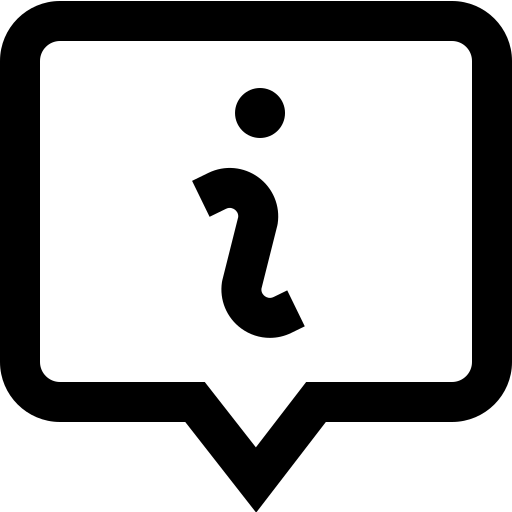
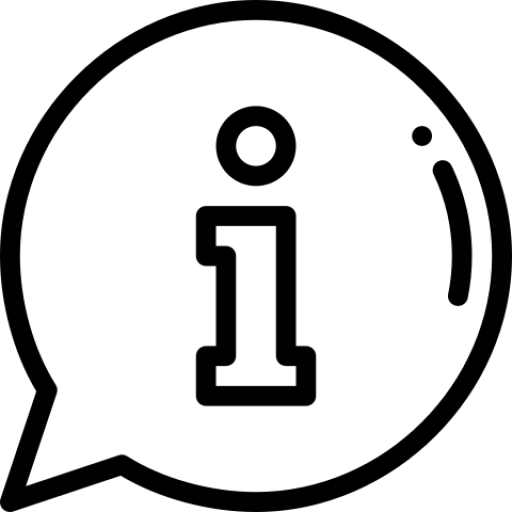
Finaliza projeto para entrega

diff --git a/styles/about.css b/styles/about.css
@@ -1,0 +1,4 @@
+#img_about
+{
+    margin-top: 30px;
+}

diff --git a/paginas/register.php b/paginas/register.php
@@ -1,5 +1,6 @@
 <script src="/scripts/go_back.js"></script>
-<script src="scripts/valida_form.js"></script>
+<script src="/scripts/busca_cep.js"></script>
+<script src="/scripts/valida_form.js"></script>
 
 <div class="row justify-content-md-center">
 	<div class="col-lg-6">
@@ -28,7 +29,7 @@
 					<div class="input-group-prepend">
 						<span class="input-group-text">&reg;</span>
 					</div>
-					<input type="text" class="form-control" id="empresa" name="empresa" placeholder="Empresa" required>
+					<input type="text" class="form-control" id="empresa" name="empresa" placeholder="" required>
 					<div class="invalid-feedback" style="width: 100%;">
 						Sua Empresa é obrigatório.
 					</div>
@@ -36,8 +37,16 @@
 			</div>
 
 			<div class="mb-3">
+				<label for="cpfcnpj">CPF/CNPJ</label>
+				<input type="text" class="form-control" id="cpfcnpj" name="cpfcnpj" placeholder="" required>
+				<div class="invalid-feedback">
+					Seu CPF/CNPJ é obrigatório.
+				</div>
+			</div>
+
+			<div class="mb-3">
 				<label for="email">Email</label>
-				<input type="email" class="form-control" id="email" name="email" placeholder="fulano@exemplo.com" required>
+				<input type="email" class="form-control" id="email" name="email" placeholder="" required>
 				<div class="invalid-feedback">
 					Por favor, insira um endereço de e-mail válido.
 				</div>
@@ -51,48 +60,54 @@
 				</div>
 			</div>
 
-			<div class="mb-3">
-				<label for="endereco">Endereço</label>
-				<input type="text" class="form-control" id="endereco" name="endereco" placeholder="Rua dos bobos, nº 0" required>
-				<div class="invalid-feedback">
-					Por favor, insira seu endereço.
-				</div>
-			</div>
+			<hr class="mb-4">
+			<h4 class="mb-3">Endereço</h4>
 
-			<div class="mb-3">
-				<label for="cpfcnpj">CPF/CNPJ</label>
-				<input type="text" class="form-control" id="cpfcnpj" name="cpfcnpj" placeholder="000.000.000-00" required>
-				<div class="invalid-feedback">
-					Seu CPF/CNPJ é obrigatório.
+			<div class="row">
+				<div class="col-md-4 mb-3">
+					<label for="cep" ´>CEP</label>
+					<input type="text" class="form-control" id="cep" name="cep" placeholder="" value="<?=$reg['cep']?>" onblur="pesquisacep(this.value);" required>
+
+					<div class="invalid-feedback">
+						Insira um CEP válido.
+					</div>
+				</div>
+
+				<div class="col-md-4 mb-3">
+					<label for="cidade">Cidade</label>
+					<input type="text" class="form-control" id="cidade" name="cidade" placeholder="" value="<?=$reg['cidade']?>" required>
+
+					<div class="invalid-feedback">
+						Por favor informe um bairro válido.
+					</div>
+				</div>
+
+				<div class="col-md-4 mb-3">
+					<label for="estado">Estado</label>
+					<input type="text" class="form-control" id="estado" name="estado" placeholder="" value="<?=$reg['estado']?>" required>
+
+					<div class="invalid-feedback">
+						Por favor selecione um estado válido.
+					</div>
 				</div>
 			</div>
 
 			<div class="row">
-				<div class="col-md-5 mb-3">
-					<label for="pais">País</label>
-					<select class="custom-select d-block w-100" id="pais" name="pais" required>
-						<option value="">Escolha...</option>
-						<option>Brasil</option>
-					</select>
+				<div class="col-md-8 mb-3">
+					<label for="rua">Logradouro</label>
+					<input type="text" class="form-control" id="rua" name="logradouro" placeholder="" value="<?=$reg['logradouro']?>" required>
+
 					<div class="invalid-feedback">
-						Por favor, escolha um país válido.
+						Por favor insira o endereço.
 					</div>
 				</div>
+
 				<div class="col-md-4 mb-3">
-					<label for="estado">Estado</label>
-					<select class="custom-select d-block w-100" id="estado" name="estado" required>
-						<option value="">Escolha...</option>
-						<option>Acre</option>
-					</select>
+					<label for="numero">Número</label>
+					<input type="text" class="form-control" id="numero" name="numero" placeholder="" value="<?=$reg['numero']?>" required>
+
 					<div class="invalid-feedback">
-						Por favor, insira um estado válido.
-					</div>
-				</div>
-				<div class="col-md-3 mb-3">
-					<label for="cep">CEP</label>
-					<input type="text" class="form-control" id="cep" name="cep" placeholder="" required>
-					<div class="invalid-feedback">
-						É obrigatório inserir um CEP.
+						Por favor informe um número válido.
 					</div>
 				</div>
 			</div>

diff --git a/paginas/about.php b/paginas/about.php
@@ -1,26 +1,25 @@
-<!-- CSS específico da página -->
-<link href="about.css" rel="stylesheet">
-
 <div class='row justify-content-md-center'>
     <div class='col-lg-5'>
-        <div class='py-5 text-center'>
-            <!-- Imagem do topo da página -->
+        <!-- Imagem do topo da página -->
+        <div id='top_element'>
             <img class='d-block mx-auto mb-4' id='img_about' src='img/about.png' alt='' width='100' height='100'>
+        </div>
             
-            <!-- Título -->
-            <h1 class='cover-heading'>Os Criadores</h1>
+        <!-- Título -->
+        <h1 class='cover-heading'>Os Criadores</h1>
 
-            <p class='lead'>
-                <br>
-                Alexei Secretti<br>
-                <a role='button' id='fa_icon_1' href='https://github.com/Alexei350' class='btn btn-lg text-dark shadow-none'><i class='fab fa-github fa-3x'></i></a>
-                <a role='button' id='fa_icon_2' href='https://www.facebook.com/alexei.secretti' class='btn btn-lg text-dark shadow-none'><i class='fab fa-facebook fa-3x'></i></a>
-            </p>
+        <p class='lead'>
+            <br>
+            Alexei Secretti<br>
+            <a role='button' id='fa_icon_1' target="_blank" href='https://github.com/Alexei350' class='btn btn-lg text-dark shadow-none'><i class='fab fa-github fa-3x'></i></a>
+            <a role='button' id='fa_icon_2' target="_blank" href='https://www.facebook.com/alexei.secretti' class='btn btn-lg text-dark shadow-none'><i class='fab fa-facebook fa-3x'></i></a>
+        </p>
 
-            <p class='lead'>
-                Éverton Schultz<br>
-                <a role='button' id='fa_icon_3' href='https://www.facebook.com/everton.tchati' class='btn btn-lg text-dark shadow-none'><i class='fab fa-facebook fa-3x'></i></a>
-            </p>
-        </div> 
+        <p class='lead'>
+            Éverton Schultz<br>
+            <a role='button' id='fa_icon_3' target="_blank" href='https://www.facebook.com/everton.tchati' class='btn btn-lg text-dark shadow-none'><i class='fab fa-facebook fa-3x'></i></a>
+        </p>
+
+        <div>Icons made by <a href="https://www.freepik.com/" title="Freepik">Freepik</a> from <a href="https://www.flaticon.com/" title="Flaticon">www.flaticon.com</a> is licensed by <a href="http://creativecommons.org/licenses/by/3.0/" title="Creative Commons BY 3.0" target="_blank">CC 3.0 BY</a></div>
     </div>
 </div>

diff --git a/paginas/os.php b/paginas/os.php
@@ -49,7 +49,7 @@
 
 			<div class="mb-3">
 				<label for="email">Email <span class="text-muted">(Opcional)</span></label>
-				<input type="email" class="form-control" id="email" name="email" placeholder="Ex: usuario@dominio.com" value="<?=$reg['email']?>">
+				<input type="email" class="form-control" id="email" name="email" placeholder="" value="<?=$reg['email']?>">
 			</div>
 
 			<div class="row">
@@ -84,7 +84,7 @@
 			<div class="row">
 				<div class="col-md-8 mb-3">
 					<label for="rua">Logradouro</label>
-					<input type="text" class="form-control" id="rua" name="logradouro" placeholder="Ex: Av. Brasil" value="<?=$reg['logradouro']?>" required>
+					<input type="text" class="form-control" id="rua" name="logradouro" placeholder="" value="<?=$reg['logradouro']?>" required>
 
 					<div class="invalid-feedback">
 						Por favor insira o endereço.

diff --git a/crud/usuario_insert.php b/crud/usuario_insert.php
@@ -11,9 +11,9 @@
                  , email
                  , senha
                  , empresa
-                 , endereco
+                 , logradouro
+                 , numero
                  , cpfcnpj
-                 , pais
                  , estado
                  , cep)
                  
@@ -22,9 +22,9 @@
                  , '{$_POST['email']}'
                  , '{$senha}'
                  , '{$_POST['empresa']}'
-                 , '{$_POST['endereco']}'
+                 , '{$_POST['logradouro']}'
+                 , '{$_POST['numero']}'
                  , '{$_POST['cpfcnpj']}'
-                 , '{$_POST['pais']}'
                  , '{$_POST['estado']}'
                  , '{$_POST['cep']}')";
 

diff --git a/index.php b/index.php
@@ -100,7 +100,7 @@
 				<!--Chama a tela selecionada-->
 				<?php
 					//Se passar o nome da página por get acessa a página referida, senão acessa a página de boas-vindas, se não for logado vai pra tela de login
-					if(file_exists("paginas/{$_GET['pagina']}.php") && !ISSET($_SESSION['nome']) && $_GET['pagina'] != 'login' && $_GET['pagina'] != 'register')
+					if(file_exists("paginas/{$_GET['pagina']}.php") && !ISSET($_SESSION['nome']) && $_GET['pagina'] != 'login' && $_GET['pagina'] != 'register' && $_GET['pagina'] != 'about')
 						header('location:/login');
 						
 					include 'paginas/' . $id . '.php';

diff --git a/paginas/relatorios.php b/paginas/relatorios.php
@@ -28,7 +28,7 @@
 									<td>{$row['ano']}</td>
 									<td>{$row['qtd']}</td>
 									<td>{$row['dias']}</td>
-									<td>" . round($row['temp']/$row['dias'], 2) . "h/dia</td>
+									<td>" . str_replace('.', ',', round($row['temp']/$row['dias'], 1)) . "h/dia</td>
 									<td>{$row['temp']}h</td>
 									<td>R$ {$row['val']}</td>
 								</tr>";
